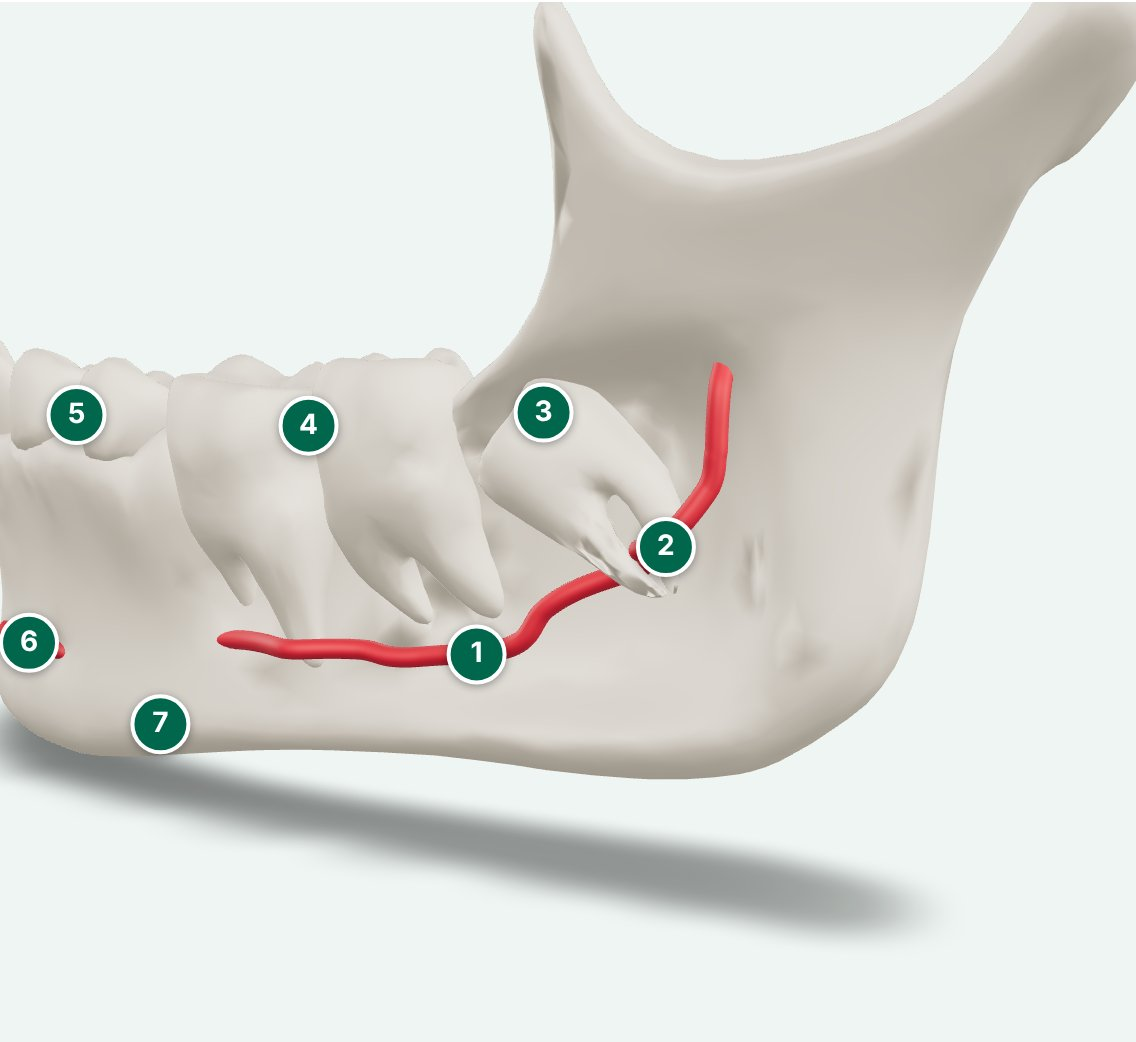
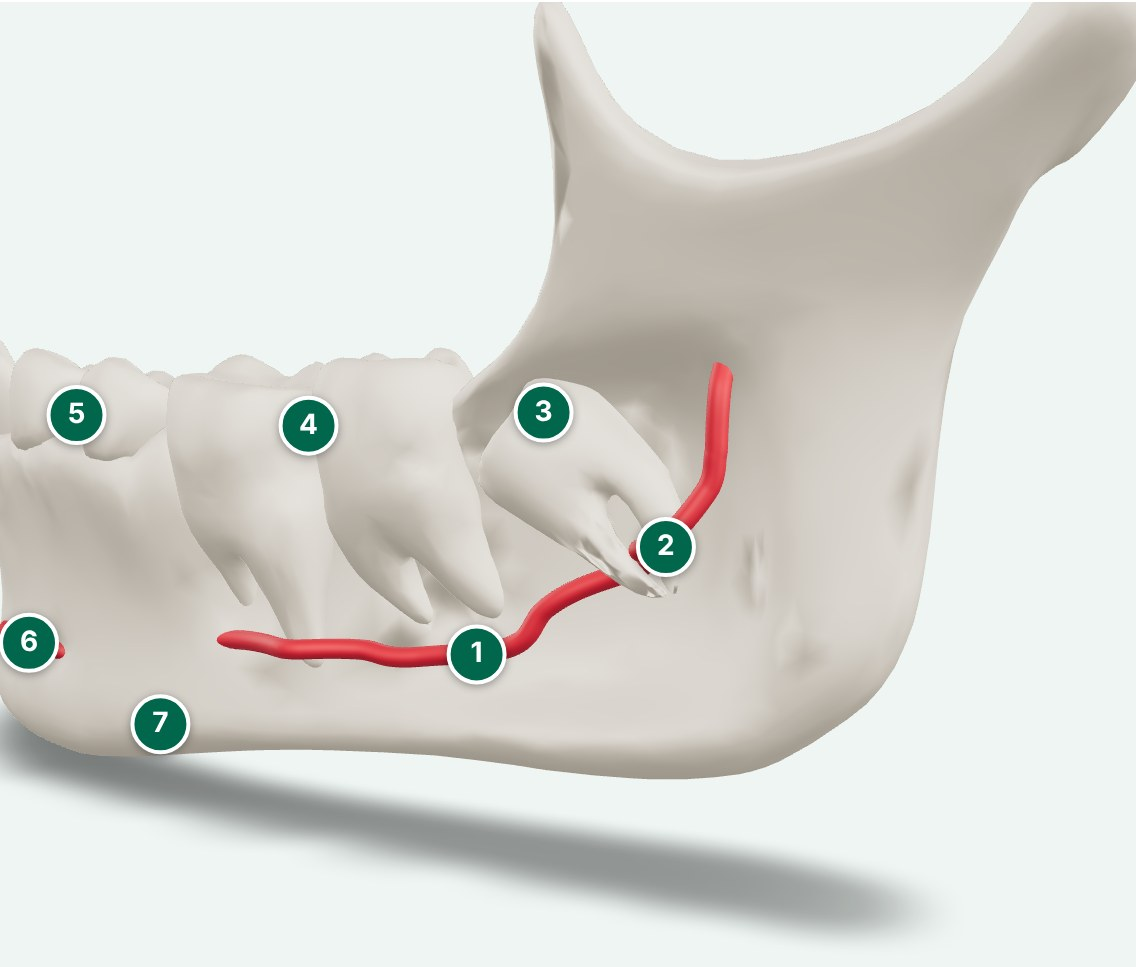
WIP information sheet

diff --git a/pamphlet/pamphlet.css b/pamphlet/pamphlet.css
@@ -1,39 +1,79 @@
-/* Print layout for the pamphlet. Same text as the webpage, without the 3D viewer. */
-.pamphlet { --bg: #fff; --text: #231f20; --muted: #5a616b; --line: #d9dde2; --accent: #00674c; --card: #eef5f2; --ar: #00674c; --ar-text: #fff;
-  background: #fff; color: #231f20; font-size: 15px; }
-.pamphlet main { max-width: 760px; }
-.pamphlet .brand { margin: 8px 0 0; display: flex; justify-content: flex-end; }
-.pamphlet .logo { height: 48px; padding: 0; }
+/* Information sheet: one A4 sheet, printed on both sides, in colour.
+   Same text and pictures as the webpage; only the layout is for print. */
+.pamphlet { --bg: #fff; --text: #231f20; --muted: #4f565e; --line: #d5dcd9; --accent: #00674c; --card: #eef5f2;
+  --ar: #00674c; --ar-text: #fff; background: #fff; color: var(--text); font-size: 15px; }
+.pamphlet main { max-width: 820px; }
 .pamphlet h2 { color: var(--accent); }
-.model-shots { display: grid; grid-template-columns: 1fr 1fr; gap: 10px; }
-.model-shots figure { margin: 0; background: var(--card); border-radius: 10px; overflow: hidden; }
+.sheet-head { display: flex; align-items: center; justify-content: space-between; gap: 12px;
+  background: var(--accent); color: #fff; border-radius: 10px; padding: 8px 10px 8px 16px; margin: 8px 0; }
+.sheet-head h1 { margin: 0; color: #fff; }
+.sheet-head .logo { height: 52px; padding: 3px 5px; }
+.important { background: #fff7e0; border: 2px solid #d9a400; border-radius: 10px; padding: 8px 12px; margin: 8px 0; }
+.important h2 { color: #6b4e00; margin: 0 0 2px; }
+.important p { margin: 0; }
+.model-shots { display: grid; grid-template-columns: repeat(3, 1fr); gap: 8px; }
+.model-shots figure { margin: 0; background: var(--card); border-radius: 8px; overflow: hidden; }
 .model-shots img { width: 100%; display: block; }
-.model-shots figcaption { font-size: 13px; color: var(--muted); padding: 4px 10px 8px; }
-.key { display: flex; flex-wrap: wrap; gap: 4px 18px; padding-left: 1.4em; margin: 10px 0 0; font-size: 14px; }
-.key li { padding-right: 6px; }
-@page { size: A4; margin: 12mm 12mm 12mm; }
+.model-shots figcaption { font-size: 13px; font-weight: 600; color: var(--accent); padding: 2px 8px 5px; }
+.pamphlet .legend { margin: 6px 0; }
+.parts { border-top: 0; padding: 4px 0; }
+.parts > h2, .removal > h2 { margin-bottom: 4px; }
+.parts { columns: 4; column-gap: 6px; }
+.parts > h2 { column-span: all; }
+.part { background: var(--card); border-radius: 8px; padding: 6px 8px; margin-bottom: 6px; break-inside: avoid; display: inline-block; width: 100%; }
+.part h3 { font-size: 13px; margin: 0 0 2px; line-height: 1.25; }
+.part .num { display: inline-block; width: 18px; height: 18px; line-height: 18px; border-radius: 50%; text-align: center;
+  background: var(--accent); color: #fff; font-size: 11px; margin-right: 5px; }
+.part ul { margin: 0; padding-left: 1.05em; font-size: 12px; line-height: 1.35; }
+.removal { border-top: 0; padding: 4px 0; }
+.removal .steps { display: grid; grid-template-columns: repeat(3, 1fr); gap: 8px; }
+.removal figure { margin: 0; background: var(--card); border-radius: 8px; overflow: hidden; }
+.removal img { width: 100%; display: block; }
+.removal figcaption { font-size: 12px; padding: 2px 8px 5px; }
+.step { display: inline-block; width: 16px; height: 16px; line-height: 16px; border-radius: 50%; text-align: center;
+  background: var(--accent); color: #fff; font-size: 10px; margin-right: 5px; font-weight: 700; }
+@page { size: A4; margin: 8mm; }
 @media print {
-  .pamphlet { font-size: 9.3pt; line-height: 1.42; }
-  html[lang="ja"] .pamphlet { line-height: 1.36; }
-  .pamphlet main { max-width: none; padding: 0; column-count: 2; column-gap: 8mm; }
-  .pamphlet .brand, .pamphlet h1, .model-shots, .key, .pamphlet .legend { column-span: all; }
-  .pamphlet h1 { font-size: 16pt; margin: 2px 0 8px; }
-
-  .pamphlet section { padding: 6px 0; break-inside: avoid; }
-  .pamphlet h2 { font-size: 11pt; margin-bottom: 2px; }
-  .pamphlet p { margin: 0 0 5px; }
+  .pamphlet { font-size: 8.9pt; line-height: 1.36; -webkit-print-color-adjust: exact; print-color-adjust: exact; }
+  html[lang="ja"] .pamphlet { line-height: 1.32; }
+  .pamphlet main { max-width: none; padding: 0; column-count: 2; column-gap: 6mm; }
+  .sheet-head, .important, .model-shots, .pamphlet .legend, .parts, .removal { column-span: all; }
+  .sheet-head { margin: 0 0 2mm; padding: 2mm 3mm 2mm 4mm; }
+  .sheet-head h1 { font-size: 15pt; }
+  .sheet-head .logo { height: 12mm; }
+  .important { margin: 0 0 2mm; padding: 1.5mm 3mm; }
+  .important h2 { font-size: 10.5pt; }
+  .model-shots img { height: 34mm; object-fit: contain; }
+  .model-shots figcaption { font-size: 8pt; padding: 0.5mm 2mm 1mm; }
+  .pamphlet .legend { font-size: 8pt; margin: 1mm 0; gap: 2px 14px; }
+  .pamphlet .legend .dot { width: 9px; height: 9px; }
+  .parts { column-gap: 1.5mm; padding: 0 0 1mm; }
+  .part { margin-bottom: 1.5mm; }
+  .part { padding: 1mm 2mm; break-inside: avoid; }
+  .part h3 { font-size: 7.8pt; }
+  .part .num { width: 12px; height: 12px; line-height: 12px; font-size: 7pt; }
+  .part ul { font-size: 7.3pt; line-height: 1.28; }
+  .removal { padding: 0 0 1mm; }
+  .removal img { height: 24mm; object-fit: cover; object-position: center 35%; }
+  .removal figcaption { font-size: 7.5pt; padding: 0.5mm 2mm 1mm; }
+  .pamphlet section { padding: 1.5mm 0; }
+  .pamphlet h2 { break-after: avoid; }
+  .pamphlet li, .pamphlet .stats { break-inside: avoid; }
+  .pamphlet section.refs { break-inside: auto; }
+  .pamphlet h2 { font-size: 10pt; margin: 0 0 1px; }
+  .pamphlet p { margin: 0 0 3px; }
   .pamphlet ul, .pamphlet ol { margin: 0; }
-  .pamphlet .stats { gap: 6px; margin: 4px 0; }
-  .pamphlet .stats div { padding: 6px 8px; }
-  .pamphlet .stats strong { font-size: 11pt; }
-  .pamphlet .stats span { font-size: 8.5pt; }
-  .pamphlet .xray { margin: 6px 0; break-inside: avoid; }
-  .pamphlet .xray img { width: 55%; margin: 0 auto; }
-  .pamphlet .model-shots { max-width: 105mm; }
-  .pamphlet .xray figcaption { font-size: 8.5pt; }
-  .pamphlet .refs { break-inside: auto; }
-  .pamphlet .refs ol { font-size: 6.8pt; line-height: 1.3; }
-  .pamphlet .refs li { margin-bottom: 2px; }
-  .pamphlet .disclaimer { font-size: 8pt; padding-top: 6px; }
+  .pamphlet .stats { gap: 2mm; margin: 1mm 0; }
+  .pamphlet .stats div { padding: 1mm 2mm; }
+  .pamphlet .stats strong { font-size: 10pt; }
+  .pamphlet .stats span { font-size: 7.6pt; }
+  .pamphlet .xray { margin: 1mm 0; break-inside: avoid; }
+  .pamphlet .xray img { width: 48%; margin: 0 auto; }
+  .pamphlet .xray figcaption { font-size: 7.6pt; line-height: 1.3; }
+  .pamphlet .credit { font-size: 6.5pt; }
+  .pamphlet .refs h2 { font-size: 9pt; }
+  .pamphlet .refs ol { font-size: 6.4pt; line-height: 1.25; }
+  .pamphlet .refs li { margin-bottom: 1px; }
+  .pamphlet .disclaimer { font-size: 7.5pt; padding-top: 1mm; margin: 0; }
   .pamphlet a { color: inherit; text-decoration: none; }
 }

diff --git a/pamphlet/ja/index.html b/pamphlet/ja/index.html
@@ -10,18 +10,41 @@
 </head>
 <body class="pamphlet">
 <main>
-  <p class="brand"><img class="logo" src="../../images/nagoya-logo.png" width="85" height="64" alt="名古屋大学"></p>
-  <h1>うまっている下の親知らずと、そのそばを通る神経</h1>
+  <header class="sheet-head">
+    <h1>うまっている下の親知らずと、そのそばを通る神経</h1>
+    <img class="logo" src="../../images/nagoya-logo.png" width="85" height="64" alt="名古屋大学">
+  </header>
 
-  <div class="model-shots">
-    <figure><img src="../../images/model-whole.jpg" alt="根が神経と動脈に巻き付いている、うまった下の親知らずの3Dモデル"><figcaption>全体</figcaption></figure>
-    <figure><img src="../../images/model-closeup.jpg" alt=""><figcaption>根と神経（拡大）</figcaption></figure>
-  </div>
-  <ol class="key"><li>下あごの神経（かしそう神経）</li><li>親知らずの根</li><li>親知らず（第三大きゅう歯）</li><li>第一・第二大きゅう歯</li><li>第一・第二小きゅう歯</li><li>あごの先の神経（おとがい神経）</li><li>下あごの骨</li></ol>
+  <!-- IMPORTANT START: generated by tools/build.py from the first section of content/shared-ja.html. -->
+<section class="important">
+  <h2>一人一人、ちがいます</h2>
+  <p>歯の形、神経の位置、危険の大きさは、人によって大きくちがいます。ここにあるのは、多くの人に向けた情報で、一人一人への助言ではありません。どの治りょうでも、始める前に、歯医者さんや口の手術の先生が、一人一人と、利点・危険・ほかの方法について、くわしく話し合います。</p>
+</section>
+  <!-- IMPORTANT END -->
+
+  <div class="model-shots"><figure><img src="../../images/model-whole.jpg" alt="ほお側から見た、左の下あごの3Dモデル。番号1〜7つき"><figcaption>全体</figcaption></figure><figure><img src="../../images/model-closeup.jpg" alt="神経に巻き付いた親知らずの根の拡大。番号1〜3つき"><figcaption>根と神経（拡大）</figcaption></figure><figure><img src="../../images/model-below.jpg" alt="下から見た根と神経"><figcaption>下から</figcaption></figure></div>
   <ul class="legend">
     <li><span class="dot" style="background:#d6cbbb"></span>あごの骨と歯</li>
     <li><span class="dot" style="background:#c8303a"></span>神経・動脈・静脈（下あごの管の中）</li>
   </ul>
+
+  <section class="parts">
+    <h2>モデルの各部分</h2>
+    <!-- KEY START: generated by tools/build.py from the numbered dots in ja/index.html. -->
+    <div class="part"><h3><span class="num">1</span>下あごの神経（かしそう神経）</h3><ul><li>同じ側の下の歯、歯ぐき、下くちびる、あごの感覚を伝えます。</li><li>かしそう動脈・静脈といっしょに、骨の中の管を通っています。これらも傷つくことがあります。</li><li>神経が傷つくと、しびれ、ピリピリ感、感じ方の変化、いたみが出ることがあります。一時的なことも、ずっと続くこともあります。</li><li>年れいが高い人ほど傷つきやすく、完全には治りにくくなります。</li></ul></div>
+    <div class="part"><h3><span class="num">2</span>親知らずの根</h3><ul><li>根が下あごの神経に巻き付いています。</li><li>そのため、歯をぬくと神経が傷つくことがあります。</li></ul></div>
+    <div class="part"><h3><span class="num">3</span>親知らず（第三大きゅう歯）</h3><ul><li>歯ぐきと骨の下にうまっています。</li><li>歯ぐきの上に出ていません。</li></ul></div>
+    <div class="part"><h3><span class="num">4</span>第一・第二大きゅう歯</h3><ul><li>食べ物をかむ、おくの大きな歯です。</li><li>親知らずは、この後ろにあります。</li></ul></div>
+    <div class="part"><h3><span class="num">5</span>第一・第二小きゅう歯</h3><ul><li>大きゅう歯の前にある歯です。</li><li>これも食べ物をかむのを助けます。</li></ul></div>
+    <div class="part"><h3><span class="num">6</span>あごの先の神経（おとがい神経）</h3><ul><li>下あごの神経の枝です。骨の小さなあな（おとがいあな）から外に出ます。</li><li>下くちびるとあごの感覚を伝えます。</li><li>もっとおくで下あごの神経が傷つくと、くちびるやあごの感じ方も変わることがあります。</li></ul></div>
+    <div class="part"><h3><span class="num">7</span>下あごの骨</h3><ul><li>神経、動脈、静脈が、この骨の中の管を通っています。</li></ul></div>
+    <!-- KEY END -->
+  </section>
+
+  <section class="removal">
+    <h2>歯をぬくときの動き</h2>
+    <div class="steps"><figure><img src="../../images/removal-1.jpg" alt=""><figcaption><span class="step">1</span>はじめ</figcaption></figure><figure><img src="../../images/removal-2.jpg" alt=""><figcaption><span class="step">2</span>歯が上に動く</figcaption></figure><figure><img src="../../images/removal-3.jpg" alt=""><figcaption><span class="step">3</span>根が神経の横を通る</figcaption></figure></div>
+  </section>
 
   <!-- SHARED TEXT START: generated from content/shared-ja.html by tools/build.py. Edit that file, not this block. -->
 <section>
@@ -122,7 +145,7 @@
 </section>
   <!-- SHARED TEXT END -->
 
-  <p class="disclaimer">このパンフレットは、名古屋大学の研究と、多くの人に向けた情報のためのものです。一人一人の歯についての助言ではありません。一人一人の状態については、歯医者さんや、口の手術の先生が相談にのります。</p>
+  <p class="disclaimer">この資料は、名古屋大学の研究のためのものです。</p>
 </main>
 </body>
 </html>

diff --git a/pamphlet/en/index.html b/pamphlet/en/index.html
@@ -10,18 +10,41 @@
 </head>
 <body class="pamphlet">
 <main>
-  <p class="brand"><img class="logo" src="../../images/nagoya-logo.png" width="85" height="64" alt="Nagoya University"></p>
-  <h1>Impacted lower wisdom tooth and the nerve near it</h1>
+  <header class="sheet-head">
+    <h1>Impacted lower wisdom tooth and the nerve near it</h1>
+    <img class="logo" src="../../images/nagoya-logo.png" width="85" height="64" alt="Nagoya University">
+  </header>
 
-  <div class="model-shots">
-    <figure><img src="../../images/model-whole.jpg" alt="3D model of an impacted lower wisdom tooth whose roots wrap around the nerve and artery"><figcaption>Whole jaw</figcaption></figure>
-    <figure><img src="../../images/model-closeup.jpg" alt=""><figcaption>Close-up of the roots and nerve</figcaption></figure>
-  </div>
-  <ol class="key"><li>Jaw nerve (inferior alveolar nerve)</li><li>Roots of the wisdom tooth</li><li>Wisdom tooth (third molar)</li><li>First and second molars</li><li>First and second premolars</li><li>Chin nerve (mental nerve)</li><li>Jaw bone (mandible)</li></ol>
+  <!-- IMPORTANT START: generated by tools/build.py from the first section of content/shared-en.html. -->
+<section class="important">
+  <h2>Every person is different</h2>
+  <p>The shape of the tooth, where the nerve is, and the risks can be very different from person to person. So the facts here are general. They are not advice for one person. Before any treatment, the dentist or surgeon will talk with each person in detail about the benefits, risks and choices.</p>
+</section>
+  <!-- IMPORTANT END -->
+
+  <div class="model-shots"><figure><img src="../../images/model-whole.jpg" alt="3D model of the left lower jaw from the cheek side, with numbered dots 1 to 7"><figcaption>Whole jaw</figcaption></figure><figure><img src="../../images/model-closeup.jpg" alt="Close-up of the wisdom tooth roots wrapped around the nerve, with dots 1 to 3"><figcaption>Roots and nerve</figcaption></figure><figure><img src="../../images/model-below.jpg" alt="The roots and the nerve seen from below"><figcaption>From below</figcaption></figure></div>
   <ul class="legend">
     <li><span class="dot" style="background:#d6cbbb"></span>Jaw bone and teeth</li>
     <li><span class="dot" style="background:#c8303a"></span>Nerve, artery and vein (in their canal)</li>
   </ul>
+
+  <section class="parts">
+    <h2>Parts of the model</h2>
+    <!-- KEY START: generated by tools/build.py from the numbered dots in en/index.html. -->
+    <div class="part"><h3><span class="num">1</span>Jaw nerve (inferior alveolar nerve)</h3><ul><li>Gives feeling to the lower teeth, gums, lip and chin on this side.</li><li>Runs in a tube in the bone with the inferior alveolar artery and vein. These can also be hurt.</li><li>If the nerve is hurt, the area can feel numb, have pins and needles, feel strange or hurt. This can be short-term or long-term.</li><li>In older adults, damage is more likely, and less likely to heal fully.</li></ul></div>
+    <div class="part"><h3><span class="num">2</span>Roots of the wisdom tooth</h3><ul><li>The roots wrap around the jaw nerve.</li><li>So taking the tooth out can hurt the nerve.</li></ul></div>
+    <div class="part"><h3><span class="num">3</span>Wisdom tooth (third molar)</h3><ul><li>Impacted: stuck under the gum and bone.</li><li>Unerupted: it has not come through the gum.</li></ul></div>
+    <div class="part"><h3><span class="num">4</span>First and second molars</h3><ul><li>Big back teeth used to chew.</li><li>The wisdom tooth sits behind them.</li></ul></div>
+    <div class="part"><h3><span class="num">5</span>First and second premolars</h3><ul><li>The teeth in front of the molars.</li><li>They also help to chew.</li></ul></div>
+    <div class="part"><h3><span class="num">6</span>Chin nerve (mental nerve)</h3><ul><li>A branch of the jaw nerve. It comes out of the bone through a small hole (the mental foramen).</li><li>Gives feeling to the lower lip and chin.</li><li>If the jaw nerve is hurt further back, the lip and chin can feel different too.</li></ul></div>
+    <div class="part"><h3><span class="num">7</span>Jaw bone (mandible)</h3><ul><li>The jaw nerve, artery and vein run in a tube inside this bone.</li></ul></div>
+    <!-- KEY END -->
+  </section>
+
+  <section class="removal">
+    <h2>How the tooth comes out</h2>
+    <div class="steps"><figure><img src="../../images/removal-1.jpg" alt=""><figcaption><span class="step">1</span>Start</figcaption></figure><figure><img src="../../images/removal-2.jpg" alt=""><figcaption><span class="step">2</span>The tooth lifts out</figcaption></figure><figure><img src="../../images/removal-3.jpg" alt=""><figcaption><span class="step">3</span>The roots pass the nerve</figcaption></figure></div>
+  </section>
 
   <!-- SHARED TEXT START: generated from content/shared-en.html by tools/build.py. Edit that file, not this block. -->
 <section>
@@ -122,7 +145,7 @@
 </section>
   <!-- SHARED TEXT END -->
 
-  <p class="disclaimer">This leaflet is for a research study at Nagoya University. It also gives general facts. It is not advice for one person. A dentist or oral surgeon can give advice for each person.</p>
+  <p class="disclaimer">This sheet is for a research study at Nagoya University.</p>
 </main>
 </body>
 </html>

diff --git a/ja/index.html b/ja/index.html
@@ -58,6 +58,11 @@
   </ul>
 
   <!-- SHARED TEXT START: generated from content/shared-ja.html by tools/build.py. Edit that file, not this block. -->
+<section class="important">
+  <h2>一人一人、ちがいます</h2>
+  <p>歯の形、神経の位置、危険の大きさは、人によって大きくちがいます。ここにあるのは、多くの人に向けた情報で、一人一人への助言ではありません。どの治りょうでも、始める前に、歯医者さんや口の手術の先生が、一人一人と、利点・危険・ほかの方法について、くわしく話し合います。</p>
+</section>
+
 <section>
   <h2>どんな状態ですか？</h2>
   <p>親知らずは、いちばんおくにある歯です。「<b>第三大きゅう歯</b>」ともよびます。<b>うまっている下の親知らず</b>は、歯ぐきと骨の下にあり、歯ぐきの上に出ていません。正しい向きに生えることができません。</p>
@@ -156,7 +161,7 @@
 </section>
   <!-- SHARED TEXT END -->
 
-  <p class="disclaimer">このページは、名古屋大学の研究と、多くの人に向けた情報のためのものです。一人一人の歯についての助言ではありません。一人一人の状態については、歯医者さんや、口の手術の先生が相談にのります。</p>
+  <p class="disclaimer">このページは、名古屋大学の研究のためのものです。</p>
 </main>
 
 <script src="../viewer.js"></script>

diff --git a/en/index.html b/en/index.html
@@ -58,6 +58,11 @@
   </ul>
 
   <!-- SHARED TEXT START: generated from content/shared-en.html by tools/build.py. Edit that file, not this block. -->
+<section class="important">
+  <h2>Every person is different</h2>
+  <p>The shape of the tooth, where the nerve is, and the risks can be very different from person to person. So the facts here are general. They are not advice for one person. Before any treatment, the dentist or surgeon will talk with each person in detail about the benefits, risks and choices.</p>
+</section>
+
 <section>
   <h2>What is the problem?</h2>
   <p>The wisdom tooth is the last tooth at the back. Its other name is the <b>third molar</b>. An <b>impacted lower wisdom tooth</b> is stuck under the gum and bone. It has not come through the gum (it is <b>unerupted</b>). It cannot grow in the right way.</p>
@@ -156,7 +161,7 @@
 </section>
   <!-- SHARED TEXT END -->
 
-  <p class="disclaimer">This page is for a research study at Nagoya University. It also gives general facts. It is not advice for one person. A dentist or oral surgeon can give advice for each person.</p>
+  <p class="disclaimer">This page is for a research study at Nagoya University.</p>
 </main>
 
 <script src="../viewer.js"></script>

diff --git a/content/shared-ja.html b/content/shared-ja.html
@@ -1,3 +1,8 @@
+<section class="important">
+  <h2>一人一人、ちがいます</h2>
+  <p>歯の形、神経の位置、危険の大きさは、人によって大きくちがいます。ここにあるのは、多くの人に向けた情報で、一人一人への助言ではありません。どの治りょうでも、始める前に、歯医者さんや口の手術の先生が、一人一人と、利点・危険・ほかの方法について、くわしく話し合います。</p>
+</section>
+
 <section>
   <h2>どんな状態ですか？</h2>
   <p>親知らずは、いちばんおくにある歯です。「<b>第三大きゅう歯</b>」ともよびます。<b>うまっている下の親知らず</b>は、歯ぐきと骨の下にあり、歯ぐきの上に出ていません。正しい向きに生えることができません。</p>

diff --git a/content/shared-en.html b/content/shared-en.html
@@ -1,3 +1,8 @@
+<section class="important">
+  <h2>Every person is different</h2>
+  <p>The shape of the tooth, where the nerve is, and the risks can be very different from person to person. So the facts here are general. They are not advice for one person. Before any treatment, the dentist or surgeon will talk with each person in detail about the benefits, risks and choices.</p>
+</section>
+
 <section>
   <h2>What is the problem?</h2>
   <p>The wisdom tooth is the last tooth at the back. Its other name is the <b>third molar</b>. An <b>impacted lower wisdom tooth</b> is stuck under the gum and bone. It has not come through the gum (it is <b>unerupted</b>). It cannot grow in the right way.</p>

diff --git a/style.css b/style.css
@@ -78,3 +78,6 @@ model-viewer.labels-off .hotspot { display: none; }
 main p, main li, figcaption { text-align: justify; hyphens: auto; -webkit-hyphens: auto; }
 main ul, main ol, .info, .info li, .refs li { text-align: justify; hyphens: auto; -webkit-hyphens: auto; }
 .controls, .ar-more { text-align: left; hyphens: manual; -webkit-hyphens: manual; }
+.important { background: #fff7e0; border: 2px solid #d9a400; border-radius: 12px; padding: 12px 14px; margin: 12px 0; }
+.important h2 { color: #6b4e00; }
+.important p { margin: 0; color: #231f20; }

diff --git a/tools/build.py b/tools/build.py
@@ -46,6 +46,28 @@ def inject(path, block):
                lambda m: m.group(1) + block + '\n' + m.group(2).lstrip('\n'), s, flags=re.S)
     path.write_text(s)
 
+def block(path, name, html):
+    s = path.read_text()
+    s = re.sub(rf'(<!-- {name} START[^>]*-->\n).*?(\s*<!-- {name} END -->)',
+               lambda m: m.group(1) + html + '\n' + m.group(2).lstrip('\n'), s, flags=re.S)
+    path.write_text(s)
+
+
+def key(lang):
+    """The numbered parts with their notes, copied from the dots on the webpage."""
+    page = (ROOT / f'{lang}/index.html').read_text()
+    items = []
+    for num, title, notes in re.findall(r'class="hotspot" slot="hotspot-(\d+)".*?<span class="label">(.*?)</span><span class="note">(.*?)</span></button>', page):
+        lis = ''.join(f'<li>{n}</li>' for n in re.findall(r'<span>(.*?)</span>', notes))
+        items.append(f'    <div class="part"><h3><span class="num">{num}</span>{title}</h3><ul>{lis}</ul></div>')
+    return '\n'.join(items)
+
+
 for lang in ('en', 'ja'):
     inject(ROOT / f'{lang}/index.html', render(lang, '../images'))
-    inject(ROOT / f'pamphlet/{lang}/index.html', render(lang, '../../images'))
+    text = render(lang, '../../images')
+    important = re.search(r'<section class="important">.*?</section>\n*', text, flags=re.S)
+    sheet = ROOT / f'pamphlet/{lang}/index.html'
+    inject(sheet, text.replace(important.group(0), ''))
+    block(sheet, 'IMPORTANT', important.group(0).strip())
+    block(sheet, 'KEY', key(lang))
